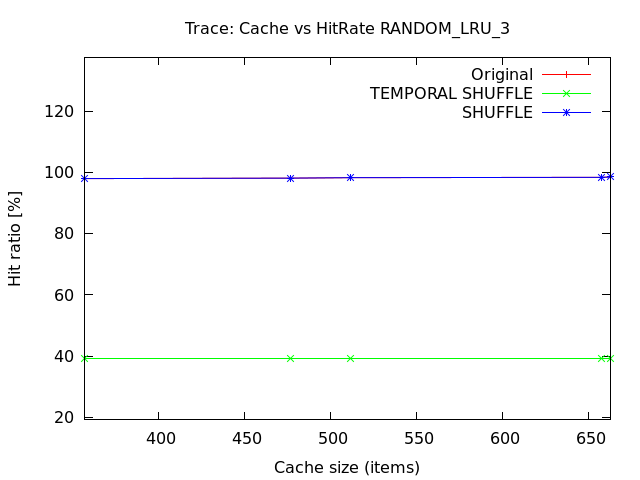
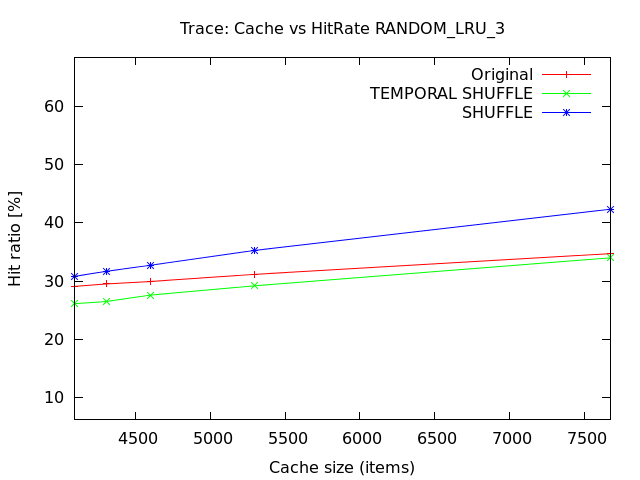
trace_complete initialize_cache shuffle temporality

diff --git a/cache_masterV2/main.py b/cache_masterV2/main.py
@@ -21,8 +21,8 @@ l = { "CLOCK": CLOCK,
 #      "kRANDOM_LRU": kRANDOM_LRU, #  handled differently
 }
 
-#ss=[5, 30, 50, 70, 100, 200, 300, 400, 500, 600, 700, 800, 900, 1000, 1100, 1200, 1300, 1400, 1500]
-ss=[]
+
+array_cache=[]
 
 
 def rename_files():
@@ -31,17 +31,50 @@ def rename_files():
         name = 'trace_'+str(p)
         os.rename(traces+x,traces+name)
         p+=1
+    p = None
 
 
-#Función que lee las líneas del archivo indicando la posición del id y un el caracter de separación en caso de existir
-def get_file_column_from_file(character, position, lines):
-    for line in lines:        
-        key = line.replace("\n", "").lstrip().split(" ")[position].split(character)[0]
-        real_traces.append(key)
+def inicialize_traces(character, position):
+    dic_temporality.clear() 
+    contador = 0
+    n_lineas = 0
+    trace_complete = []
+
+    for x in os.listdir(traces):  #recorre la lista de los archivos de traces
+        f = open(traces+x, "r")
+        lines = f.readlines()
+        n_lineas = n_lineas + sum(1 for line in lines) #obtiene el número de líneas del archivo        
+        f.close()        
+        for line in lines:        
+            key = line.replace("\n", "").lstrip().split(" ")[position].split(character)[0]
+            trace_complete.append(key)
+            if not(dic_temporality.has_key(key)):
+                dic_temporality[key] = {'first_position':contador, 'last_position':contador, 'amount':1}
+            else:
+                dic_temporality.get(key)['amount'] += 1
+                dic_temporality.get(key)['last_position'] = contador
+                if (dic_temporality.get(key)['amount'] > 2):
+                    shuffle_array.append(key)
+            contador +=1
+    random.shuffle(shuffle_array)
+    num_lines = n_lineas
+
+    return trace_complete,num_lines
+
+#Crea una lista con tamaños de cache aleatorios,
+#tomando como rango mínimo el tamaño del archivo más pequeño
+#y como rango máximo el tamaño del archivo más grande
+def inicialize_cache():     
+    min_file_size = 1
+    max_file_size = 0
+    n_array = 5      
+    max_file_size = sum((1 for key, value in dic_temporality.items() if value['amount'] == 1))   
+    for i in xrange(n_array):        
+        array_cache.append(random.randint(min_file_size, max_file_size))
+    array_cache.sort() 
 
 
-
-def do_originals(character, position):
+def do_originals(trace_complete):
     for algn in algorithms_selected:
         k = None
         if algn.find("RANDOM_LRU") >= 0:
@@ -62,28 +95,24 @@ def do_originals(character, position):
 
         fo = open(folder+'/'+str(algn) + "_ORIGINAL.res","wb")
 
-        for c in ss:
+        
+        for c in array_cache:
             
             alg = algm.alg(c, k=k)
             
             time1 = time.time()
             lc = 0
 
-            for x in os.listdir(traces):
-                f = open(traces+x, "r")
-                lines = f.readlines()
-                #alg.setup(lines)
-                f.close()
-                
-                get_file_column_from_file(character, position, lines)
+            
 
-                for line in real_traces:
-                    lc += 1
-                    ret = alg.get(line)
-                    if not ret:
-                        alg.put(line, 1)
-                    #print 'stored: '
-                    #print alg.stored
+            for line in trace_complete:
+                
+                lc += 1
+                ret = alg.get(line)
+                if not ret:
+                    alg.put(line, 1)
+                #print 'stored: '
+                #print alg.stored
 
             time2 = time.time()
             diff = time2-time1
@@ -124,39 +153,15 @@ def range_hitrate_request():
     return maxhit, maxtp, minhit, mintp
 
 def range_cache():
-    min_cache, max_cache = [ss[0], ss[-1]]
+    min_cache, max_cache = [array_cache[0], array_cache[-1]]
     return min_cache, max_cache
 
 
-#Crea una lista con tamaños de cache aleatorios,
-#tomando como rango mínimo el tamaño del archivo más pequeño
-#y como rango máximo el tamaño del archivo más grande
-def inicialize_cache(): 
-    path_size = 0
-    min_file_size = 0
-    max_file_size = 0
-    n_array = 5    
-    for the_path, dirs, files in os.walk(traces):
-        for fil in files:
-            filename = os.path.join(the_path, fil)
-            path_size = os.path.getsize(filename)
-            if(min_file_size == 0):
-                min_file_size = path_size            
-            if(path_size < min_file_size):
-                min_file_size = path_size
-            if(path_size > max_file_size):
-                max_file_size = path_size   
-        if (path_size > 1024):
-            min_file_size = min_file_size/1024    
-            max_file_size = max_file_size/1024    
-                
-    for i in xrange(n_array):        
-        ss.append(random.randint(min_file_size, max_file_size))
-    ss.sort()    
+   
         
     
 
-def do_shuffle(character, position):    
+def do_shuffle(trace_complete, num_lines):    
         
     for algn in algorithms_selected:    #recorre lista de algoritmos        
         k = None
@@ -181,55 +186,38 @@ def do_shuffle(character, position):
 
             file_result = open(folder+'/'+str(algn) + "_K_" + str(slices[j])+".res","wb")
 
-            for i in xrange(len(ss)):    #recorre lista de tamaños de cache
-                c = int(ss[i])
+            for i in xrange(len(array_cache)):    #recorre lista de tamaños de cache
+                c = int(array_cache[i])
                 alg = algm.alg(c, k=k)        
                 time1 = time.time()
                 lc = 0
-                #print " CACHE SIZE = " + str(ss[i])        
+
+                if (num_lines < slices[j]):                                        
+                    n_slice = 1
+                contador = 0
                 
-                for x in os.listdir(traces):  #recorre la lista de los archivos de traces
-                    f = open(traces+x, "r")
-                    lines = f.readlines()
-
-                    get_file_column_from_file(character, position, lines)
-
-                    #alg.setup(lines)
-                    #num_lines = sum(1 for line in lines) #obtiene el número de líneas del archivo
-
-                    num_lines = sum(1 for line in real_traces) #obtiene el número de líneas del archivo
-
-                    f.close()
+                for q in xrange(n_slice): #divide el archivo en n partes
                     
-                    
+                    if ((n_slice > 0) and (n_slice < num_lines)) :
+                        if(contador == 0):                            
+                            num = int(round(num_lines / n_slice,0))                            
+                            max_num = num
+                        else:                            
+                            max_num = max_num + num 
+                            if (q == n_slice - 1):
+                                max_num = num_lines                        
 
-                    #print " leyendo archivo " + str(x) + " de " + str(num_lines) + " lineas, slice k = " + str(slices[j])   
-                    if (num_lines < slices[j]):                                        
-                        n_slice = 1
-                    contador = 0
-                    
-                    for q in xrange(n_slice): #divide el archivo en n partes
-                        
-                        if ((n_slice > 0) and (n_slice < num_lines)) :
-                            if(contador == 0):                            
-                                num = int(round(num_lines / n_slice,0))                            
-                                max_num = num
-                            else:                            
-                                max_num = max_num + num 
-                                if (q == n_slice - 1):
-                                    max_num = num_lines                        
-
-                            arreglo_lineas = random.sample(range(contador, max_num), max_num-contador)
-                            lista = range(contador, max_num)
-                            random.shuffle(lista)
-                            contador = max_num
-                            for m in xrange(len(arreglo_lineas)):
-                                #line = lines[arreglo_lineas[m]]
-                                line = real_traces[arreglo_lineas[m]]
-                                lc += 1
-                                ret = alg.get(line)
-                                if not ret:
-                                    alg.put(line, 1)
+                        arreglo_lineas = random.sample(range(contador, max_num), max_num-contador)
+                        lista = range(contador, max_num)
+                        random.shuffle(lista)
+                        contador = max_num
+                        for m in xrange(len(arreglo_lineas)):
+                            #line = lines[arreglo_lineas[m]]
+                            line = trace_complete[arreglo_lineas[m]]
+                            lc += 1
+                            ret = alg.get(line)
+                            if not ret:
+                                alg.put(line, 1)
             
                 time2 = time.time()
                 diff = time2-time1
@@ -239,8 +227,6 @@ def do_shuffle(character, position):
                 hr = 0
                 if(alg.count > 0):
                     hr = alg.hitcount / (0.0 + alg.count)            
-                #print "hitcount: " +str(alg.hitcount)
-                #print "%s %d %.4f %.2f" % (str(alg), c, 100.0*hr, tp)
                 file_result.write(str(alg) + " " + str(c) + " " + str(100.0*hr) + " " + str(tp) + "\n")
                 
         file_result.close()
@@ -248,29 +234,10 @@ def do_shuffle(character, position):
 
  
 #Función que genera un nuevo arreglo para calcular el temporality
-def calculate_temporality(character, position):
-    dic_temporality.clear()
-    shuffle_array = []
-    contador = 0
-    num_lines = 0
-    for x in os.listdir(traces):  #recorre la lista de los archivos de traces
-        f = open(traces+x, "r")
-        lines = f.readlines()
-        num_lines = num_lines + sum(1 for line in lines) #obtiene el número de líneas del archivo
-        f.close()        
-        for line in lines:        
-            key = line.replace("\n", "").lstrip().split(" ")[position].split(character)[0]
-            if not(dic_temporality.has_key(key)):
-                dic_temporality[key] = {'first_position':contador, 'last_position':contador, 'amount':1}
-            else:
-                dic_temporality.get(key)['amount'] += 1
-                dic_temporality.get(key)['last_position'] = contador
-                if (dic_temporality.get(key)['amount'] > 2):
-                    shuffle_array.append(key)
-            contador +=1    
+def calculate_temporality(num_lines):    
+    real_traces = []          
+    indice = 0
     
-    random.shuffle(shuffle_array)        
-    indice = 0    
     for q in xrange(num_lines):
         id = next((key for key, value in dic_temporality.items() if value['first_position'] == q), None)        
         if (id != None):            
@@ -279,13 +246,14 @@ def calculate_temporality(character, position):
             id = next((key for key, value in dic_temporality.items() if value['last_position'] == q), None)            
             if (id != None):
                 real_traces.append(id)
-            else:
+            else:                
                 indice = random.randint(0, len(shuffle_array)-1)
                 real_traces.append(shuffle_array.__getitem__(indice))
-                shuffle_array.__delitem__(indice)
+                shuffle_array.__delitem__(indice)                         
+    return real_traces  
 
 
-def do_temporality():
+def do_temporality(trace_complete):
     for algn in algorithms_selected:
         k = None
         if algn.find("RANDOM_LRU") >= 0:
@@ -306,14 +274,15 @@ def do_temporality():
 
         fo = open(folder+'/'+str(algn) + "_TEMPORAL.res","wb")
 
-        for c in ss:
+        for c in array_cache:
             
             alg = algm.alg(c, k=k)
             
             time1 = time.time()
             lc = 0
+            
 
-            for line in real_traces:
+            for line in trace_complete:
                 lc += 1
                 ret = alg.get(line)
                 if not ret:
@@ -365,29 +334,35 @@ if __name__ == "__main__":
     rename_files()
     print 'fin rename_files'
 
+    trace_complete,num_lines = inicialize_traces("&",4)
+    print 'fin de captura de los traces en un solo trace_complete'
+
     inicialize_cache()
     print 'fin inicialize_cache'
 
-    real_traces = []
-    do_originals("&",4)
+    do_originals(trace_complete)
     print 'fin do_originals'
+    
 
-    real_traces = []
-    do_shuffle("&",4)
+    do_shuffle(trace_complete, num_lines)
     print 'fin do_shuffle'
-
-    real_traces = []
-    calculate_temporality("&",4)
-    do_temporality()
-    print 'fin do_temporality'
-
 #
-    min_cache, max_cache = range_cache()
+    trace_complete = None
+    #
+    trace_complete1 = calculate_temporality(num_lines)
+    do_temporality(trace_complete1)
+    print 'fin do_temporality'
+    trace_complete1 = None
 
-##    create_cache_request_gnu(mintp, maxtp, min_cache, max_cache)
-##    plot_cache_vs_request()
+    #real_traces = None
+    shuffle_array = None
+    dic_temporality.clear()
+    #slices = None
+
+    min_cache, max_cache = range_cache()
 
     for algorithm in algorithms_selected:
         maxhit, maxtp, minhit, mintp = range_hitrate_request_algorithm(algorithm)
         create_cache_hitrate_algorithm_gnu(minhit, maxhit, min_cache, max_cache, algorithm)
         plot_cache_vs_hitrate_algorithm(algorithm)
+

diff --git a/cache_masterV2/settings.py b/cache_masterV2/settings.py
@@ -9,7 +9,7 @@ global name_cache_hitrate_gnu
 global cache_request_gnu
 global name_cache_request_gnu
 
-global real_traces
+global num_lines
 global shuffle_array
 global dic_temporality
 
@@ -40,6 +40,6 @@ results_slices = os.getcwd()+'/results_slices/'
 cache_hitrate_slices_gnu = graphics+'cache_hitrate_slices_'
 
 
-real_traces = []
+num_lines = 0
 shuffle_array = []
 dic_temporality = dict()
